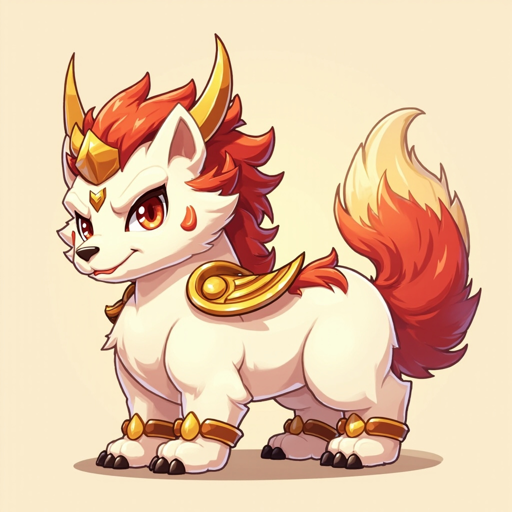
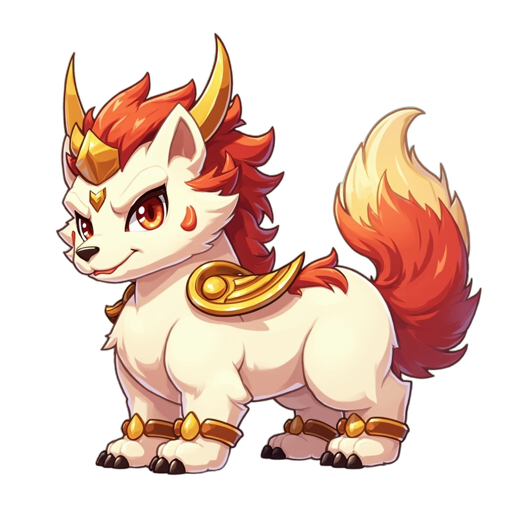
update

diff --git a/web/pet.js b/web/pet.js
@@ -202,8 +202,8 @@
   }
 
   // ---- 阶段立绘：web/pet/stage-{0..5}.png 存在时优先于 3D 展示 ----
-  // 探测成功 → 徽章锁定该立绘（行内 background-image，优先级高于表情精灵规则），
-  // 并阻止 3D 初始化；图缺失则静默回退现有 3D / 静态精灵链路。
+  // 透明底立绘铺在 56×56 可变形网格上：头部会朝光标转、身体呼吸、
+  // 眨眼压扁、开心跳动——动的是宠物部位，不是整张图。
   let stageArtIndex = -1;
   let petDragging = false;          // 与拖拽块共享（pointermove 时置位）
   const pointerAt = { x: innerWidth / 2, y: innerHeight / 2 };
@@ -211,73 +211,139 @@
     pointerAt.x = e.clientX; pointerAt.y = e.clientY;
   }, { passive: true });
 
+  let spriteP = null;   // {THREE, renderer, scene, camera, mesh, base, raf, ...}
+  // 立绘探测完成信号：决定是否启动生物体 3D（4s 兜底防 fetch 失败卡死）
+  let stageArtResolve = null;
+  const stageArtReady = new Promise((resolve) => {
+    stageArtResolve = resolve;
+    setTimeout(resolve, 4000);
+  });
+
   function probeStageArt(index) {
     const url = `${API_BASE}/assets/pet/stage-${index}.png`;
     const img = new Image();
     img.onload = () => {
+      if (stageArtIndex === index && spriteP) { swapSpriteTexture(index); return; }
       stageArtIndex = index;
       badge.classList.add("pet-stageart");
-      badge.style.backgroundImage = `url("${url}")`;
-      startStageArtLoop();
+      badge.style.backgroundImage = "";
+      ensureSprite3D(index);
+      stageArtResolve?.();
     };
     img.onerror = () => {
+      stageArtResolve?.();
       if (stageArtIndex !== -1) {
         stageArtIndex = -1;
+        teardownSprite3D();
         badge.classList.remove("pet-stageart");
-        badge.style.backgroundImage = "";
-        badge.style.transform = "";
       }
     };
     img.src = url;
   }
 
-  // ---- 立绘活体动画：呼吸 + 视线跟随倾斜 + 眨眼压扁 + 状态动作 ----
-  // （对应原 3D 版的 breathe / look / blink / 表情，reduceMotion 时只保留静态）
-  let stageArtRAF = 0, stageArtLastFrame = 0;
-  let nextArtBlinkAt = performance.now() + 2600, artBlinkUntil = 0;
-  function startStageArtLoop() {
-    if (reduceMotion || stageArtRAF || stageArtIndex < 0) return;
-    stageArtRAF = requestAnimationFrame(stageArtFrame);
+  async function ensureSprite3D(index) {
+    if (spriteP) { swapSpriteTexture(index); return; }
+    try {
+      // 与生物体 3D 互斥：接管 canvas 前先停掉旧渲染器
+      loopRunning = false;
+      if (petScene) { petScene.renderer.dispose(); petScene = null; }
+      threeLoadPromise = null;
+      const m = await import(`${API_BASE}/assets/vendor/three.module.min.js?v=0186c`);
+      const renderer = new m.WebGLRenderer({ canvas, alpha: true, antialias: true });
+      renderer.setPixelRatio(Math.min(window.devicePixelRatio || 1, 1.6));
+      const scene = new m.Scene();
+      const camera = new m.OrthographicCamera(-0.62, 0.62, 0.62, -0.62, 0.01, 10);
+      camera.position.z = 1;
+      spriteP = {
+        THREE: m, renderer, scene, camera, mesh: null, base: null, raf: 0,
+        lastFrame: 0, yaw: 0, nextBlinkAt: performance.now() + 2600, blinkUntil: 0,
+      };
+      swapSpriteTexture(index);
+      spriteFrame(performance.now());
+    } catch {
+      spriteP = null;
+      badge.classList.remove("pet-stageart");
+    }
   }
-  function stageArtFrame(now) {
-    if (stageArtIndex < 0 || root.style.display === "none") {
-      stageArtRAF = 0;
-      badge.style.transform = "";
+
+  function swapSpriteTexture(index) {
+    const { THREE, scene } = spriteP;
+    new THREE.TextureLoader().load(`${API_BASE}/assets/pet/stage-${index}.png`, (tex) => {
+      if (!spriteP) return;
+      tex.colorSpace = THREE.SRGBColorSpace;
+      if (spriteP.mesh) {
+        scene.remove(spriteP.mesh);
+        spriteP.mesh.geometry.dispose();
+      }
+      const geo = new THREE.PlaneGeometry(1.14, 1.14, 56, 56);
+      spriteP.mesh = new THREE.Mesh(geo, new THREE.MeshBasicMaterial({ map: tex, transparent: true }));
+      spriteP.base = Float32Array.from(geo.attributes.position.array);
+      scene.add(spriteP.mesh);
+    });
+  }
+
+  function teardownSprite3D() {
+    if (!spriteP) return;
+    cancelAnimationFrame(spriteP.raf);
+    spriteP.renderer.dispose();
+    spriteP = null;
+  }
+
+  // 立绘网格变形帧循环：头部转向 / 呼吸 / 眨眼 / 状态动作
+  function spriteFrame(now) {
+    if (!spriteP || stageArtIndex < 0 || root.style.display === "none") {
+      if (spriteP) spriteP.raf = 0;
       return;
     }
-    stageArtRAF = requestAnimationFrame(stageArtFrame);
-    if (now - stageArtLastFrame < 33) return;   // ~30fps，与 3D 版一致
-    stageArtLastFrame = now;
+    spriteP.raf = requestAnimationFrame(spriteFrame);
+    if (now - spriteP.lastFrame < 33 || !spriteP.mesh) return;   // ~30fps
+    spriteP.lastFrame = now;
     const t = now / 1000;
+    const p = spriteP;
 
-    // 呼吸（sleepy 更深更慢）
-    const sleepy = state === "sleepy";
-    let s = 1 + Math.sin(t * (sleepy ? 0.8 : 1.9)) * (sleepy ? 0.045 : 0.03);
-    let rot = 0, tx = 0, ty = 0;
+    // 视口尺寸自适应（拖拽/窗口变化后仍居中）
+    const w = badge.clientWidth || 96, h = badge.clientHeight || 96;
+    if (canvas.width !== Math.round(w * p.renderer.getPixelRatio())) p.renderer.setSize(w, h, false);
 
-    // 视线跟随：朝光标轻微倾斜 + 平移（拖拽中不跟）
+    // 头部朝向：光标方向（拖拽中保持）+ 待机微摆，缓动逼近
+    let yawTarget = Math.sin(t * 0.9) * 0.05;
     if (!petDragging) {
       const b = badge.getBoundingClientRect();
-      const dx = clamp((pointerAt.x - (b.left + b.width / 2)) / (window.innerWidth / 2), -1, 1);
-      const dy = clamp((pointerAt.y - (b.top + b.height / 2)) / (window.innerHeight / 2), -1, 1);
-      rot += dx * 3.2; tx += dx * 3; ty += dy * 2;
+      yawTarget += clamp((pointerAt.x - (b.left + b.width / 2)) / (window.innerWidth / 2), -1, 1) * 0.16;
     }
+    p.yaw += (yawTarget - p.yaw) * 0.12;
 
-    // 状态动作（对应 3D 表情）
-    if (state === "happy") { s *= 1 + Math.abs(Math.sin(t * 9)) * 0.06; rot += Math.sin(t * 11) * 4; }
-    else if (state === "typing") { rot += Math.sin(t * 8.5) * 5; }
-    else if (state === "thinking") { rot += Math.sin(t * 1.3) * 3; }
-    else if (sleepy) { rot += Math.sin(t * 0.7) * 1.5; }
+    // 状态动作
+    let hop = 0, lean = 0;
+    let breathe = Math.sin(t * 1.9) * 0.016;
+    if (state === "happy") { hop = Math.abs(Math.sin(t * 7)) * 0.035; p.yaw += Math.sin(t * 11) * 0.05; }
+    else if (state === "typing") { p.yaw += Math.sin(t * 8.5) * 0.1; }
+    else if (state === "thinking") { lean = Math.sin(t * 1.3) * 0.05; }
+    else if (state === "sleepy") { breathe = Math.sin(t * 0.8) * 0.026; lean = Math.sin(t * 0.7) * 0.02; }
 
-    // 眨眼：快速压扁一下
-    if (now >= nextArtBlinkAt) {
-      artBlinkUntil = now + 130;
-      nextArtBlinkAt = now + 2200 + Math.random() * 2800;
+    // 眨眼：头部轻微压扁一下
+    if (now >= p.nextBlinkAt) {
+      p.blinkUntil = now + 130;
+      p.nextBlinkAt = now + 2200 + Math.random() * 2800;
     }
-    if (now < artBlinkUntil) s *= 0.9;
+    const blink = now < p.blinkUntil ? 1 : 0;
 
-    badge.style.transform =
-      `translate(${tx.toFixed(2)}px, ${ty.toFixed(2)}px) rotate(${rot.toFixed(2)}deg) scale(${s.toFixed(4)})`;
+    const pos = p.mesh.geometry.attributes.position;
+    const arr = pos.array, base = p.base;
+    const NECK = 0.10;                       // 颈部枢轴（平面坐标 y）
+    for (let i = 0; i < arr.length; i += 3) {
+      const x0 = base[i], y0 = base[i + 1];
+      const headW = clamp((y0 - NECK) / 0.12, 0, 1);        // 头部权重（顶部渐变）
+      const dy = y0 - NECK;
+      // 头部绕颈部倾斜 + 水平剪切（近似的"转头朝光标"）
+      let x = x0 + (p.yaw * dy * 1.1) * headW;
+      let y = y0 + hop + breathe * (y0 + 0.55) * 1.4;
+      if (blink && dy > 0) y -= 0.018 * headW;              // 眨眼压扁
+      if (lean) x += lean * (y0 + 0.55) * 0.9 * (1 - headW * 0.4);
+      arr[i] = x; arr[i + 1] = y;
+    }
+    pos.needsUpdate = true;
+    p.renderer.render(p.scene, p.camera);
   }
 
   function renderPet(pet) {
@@ -1282,6 +1348,7 @@
   function ensure3D() {
     cancelScheduled3D();
     if (root.style.display === "none") return Promise.resolve(null);
+    if (stageArtIndex >= 0) return Promise.resolve(null);   // 立绘模式接管，不启动生物体 3D
     if (petScene) {
       startLoop(petScene);
       return Promise.resolve(petScene);
@@ -1334,5 +1401,9 @@
 
   badge.addEventListener("pointerenter", ensure3D);
   badge.addEventListener("focus", ensure3D);
-  if (!initiallyHidden) schedule3D();
+  // 先探测立绘（fetchPet→probeStageArt），确认无立绘才启动生物体 3D，
+  // 避免两个渲染器争用同一个 canvas。
+  if (!initiallyHidden) {
+    Promise.resolve(stageArtReady).finally(() => { if (stageArtIndex < 0) schedule3D(); });
+  }
 })();

diff --git a/web/pet.css b/web/pet.css
@@ -54,17 +54,13 @@
 .pet-badge.pet-fallback[data-state="idle"][data-look="right"] { background-image: url("pet/look-right.png"); }
 .pet-badge.pet-fallback:active { background-image: url("pet/blink.png"); }
 
-/* ---- 阶段立绘模式：web/pet/stage-{0..5}.png 存在时优先于 3D / 表情精灵 ----
-   立绘由 JS 探测后写入行内 background-image（优先级高于上面的表情规则）。 */
+/* ---- 阶段立绘模式：透明底贴图 + 网格变形动画（canvas 渲染，无卡片底） ---- */
 .pet-badge.pet-stageart {
-  border: 1px solid var(--border);
-  background-color: var(--surface);
-  background-size: contain;
-  background-repeat: no-repeat;
-  background-position: center;
-  box-shadow: 0 6px 18px rgba(28, 25, 23, .14);
+  border: 0;
+  background: transparent;
+  box-shadow: none;
 }
-.pet-badge.pet-stageart .pet-canvas { display: none; }
+.pet-badge.pet-stageart .pet-canvas { display: block; }
 
 /* 进化闪光：升级瞬间立绘泛白放大回弹（JS 触发，1.3s 后移除） */
 .pet-badge.pet-stageup { animation: pet-stage-up 1.3s ease-out; }
